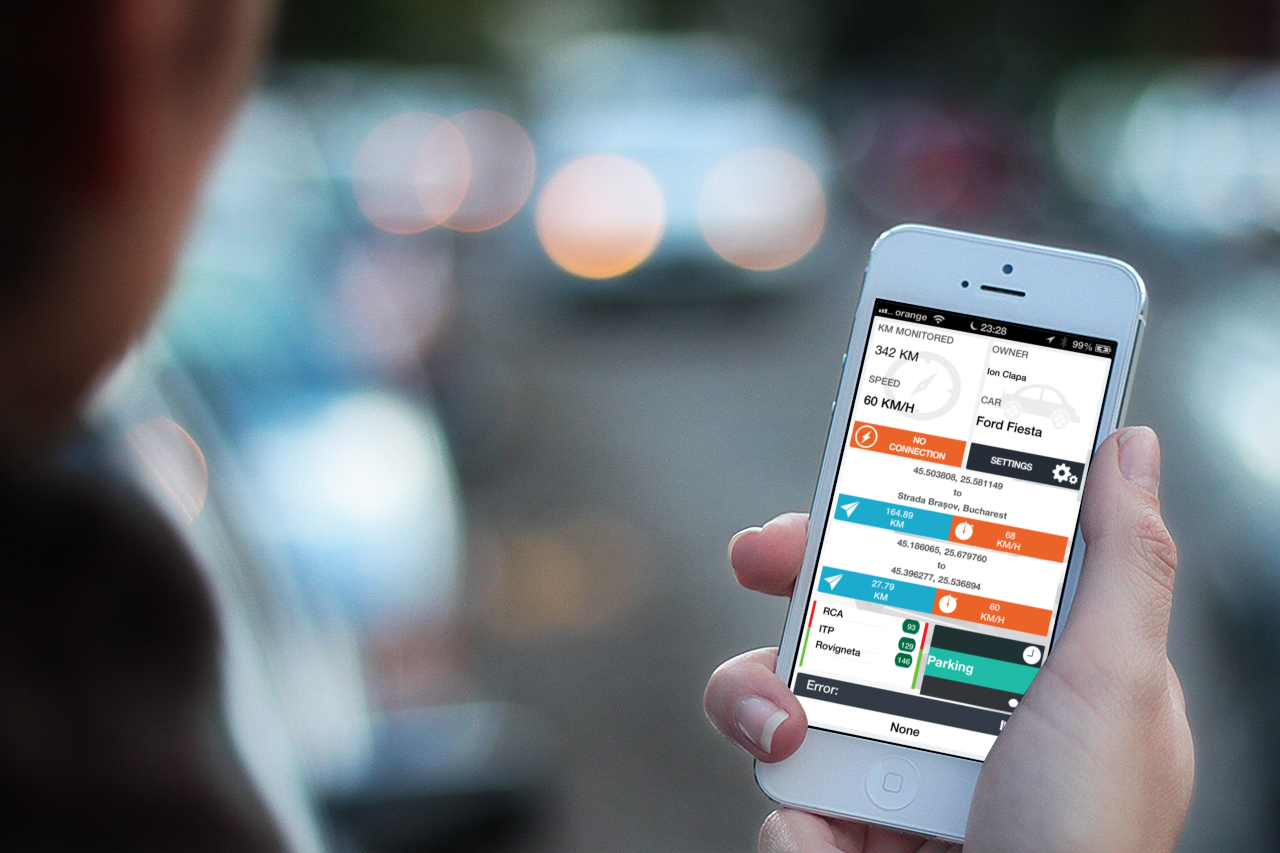
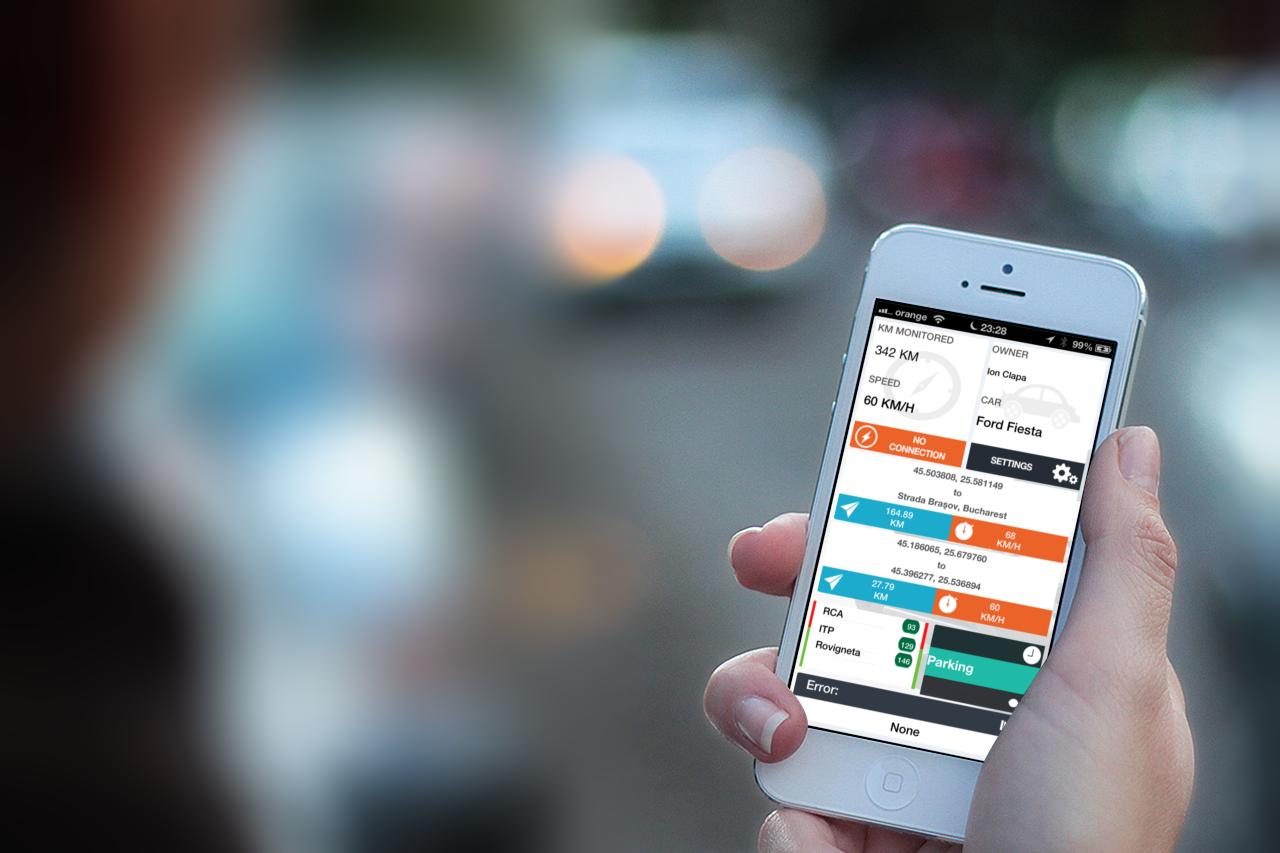
Added blur to images to make text mor readable

diff --git a/css/bootstrap.css b/css/bootstrap.css
@@ -4986,6 +4986,8 @@ a.badge:hover {
   /*color: #444444;*/
   /*color: #a69eb0;*/
   color: #fff;
+  /*background-color: black;*/
+  font-weight: thin;
 }
 
 .carousel-button {
